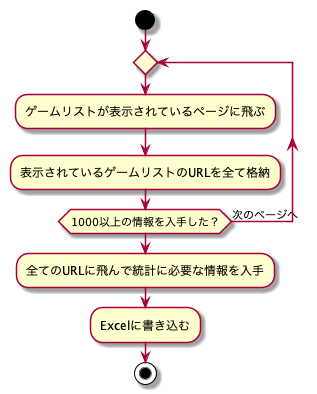
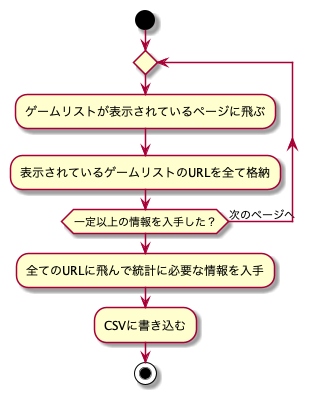
plantuml change

Changed region(s): [[0.1703, 0.5178, 0.9369, 0.6091], [0.2839, 0.7614, 0.653, 0.8832]]

diff --git a/src/main.py b/src/main.py
@@ -41,7 +41,7 @@ def get_deep_info_of_games(b):
 
     index = 0
 
-    genres = ['アクション', 'シューティング', 'アドベンチャー', 'ノベル', 'RPG', 'シミレーション', 'パズル', 'テーブル', 'タイピング', 'その他']
+    genres = ['アクション', 'シューティング', 'アドベンチャー', 'ノベル', 'RPG', 'シミュレーション', 'パズル', 'テーブル', 'タイピング', 'その他']
 
     for url in front_datas_T[c.csv_ranking_data_url]:
         b.get(url)
@@ -94,7 +94,7 @@ def main():
     b = bot.Bot(c.driver_path)
     b.login(c.freem_login_page, c.freem_login_id_xpath, c.my_id, c.freem_login_pw_xpath, c.my_pw, c.freem_login_done_xpath)
 
-    get_front_info_of_games(b, 1000)
+    #get_front_info_of_games(b, 1000)
     print("start - search - all - data")
     get_deep_info_of_games(b)
 
